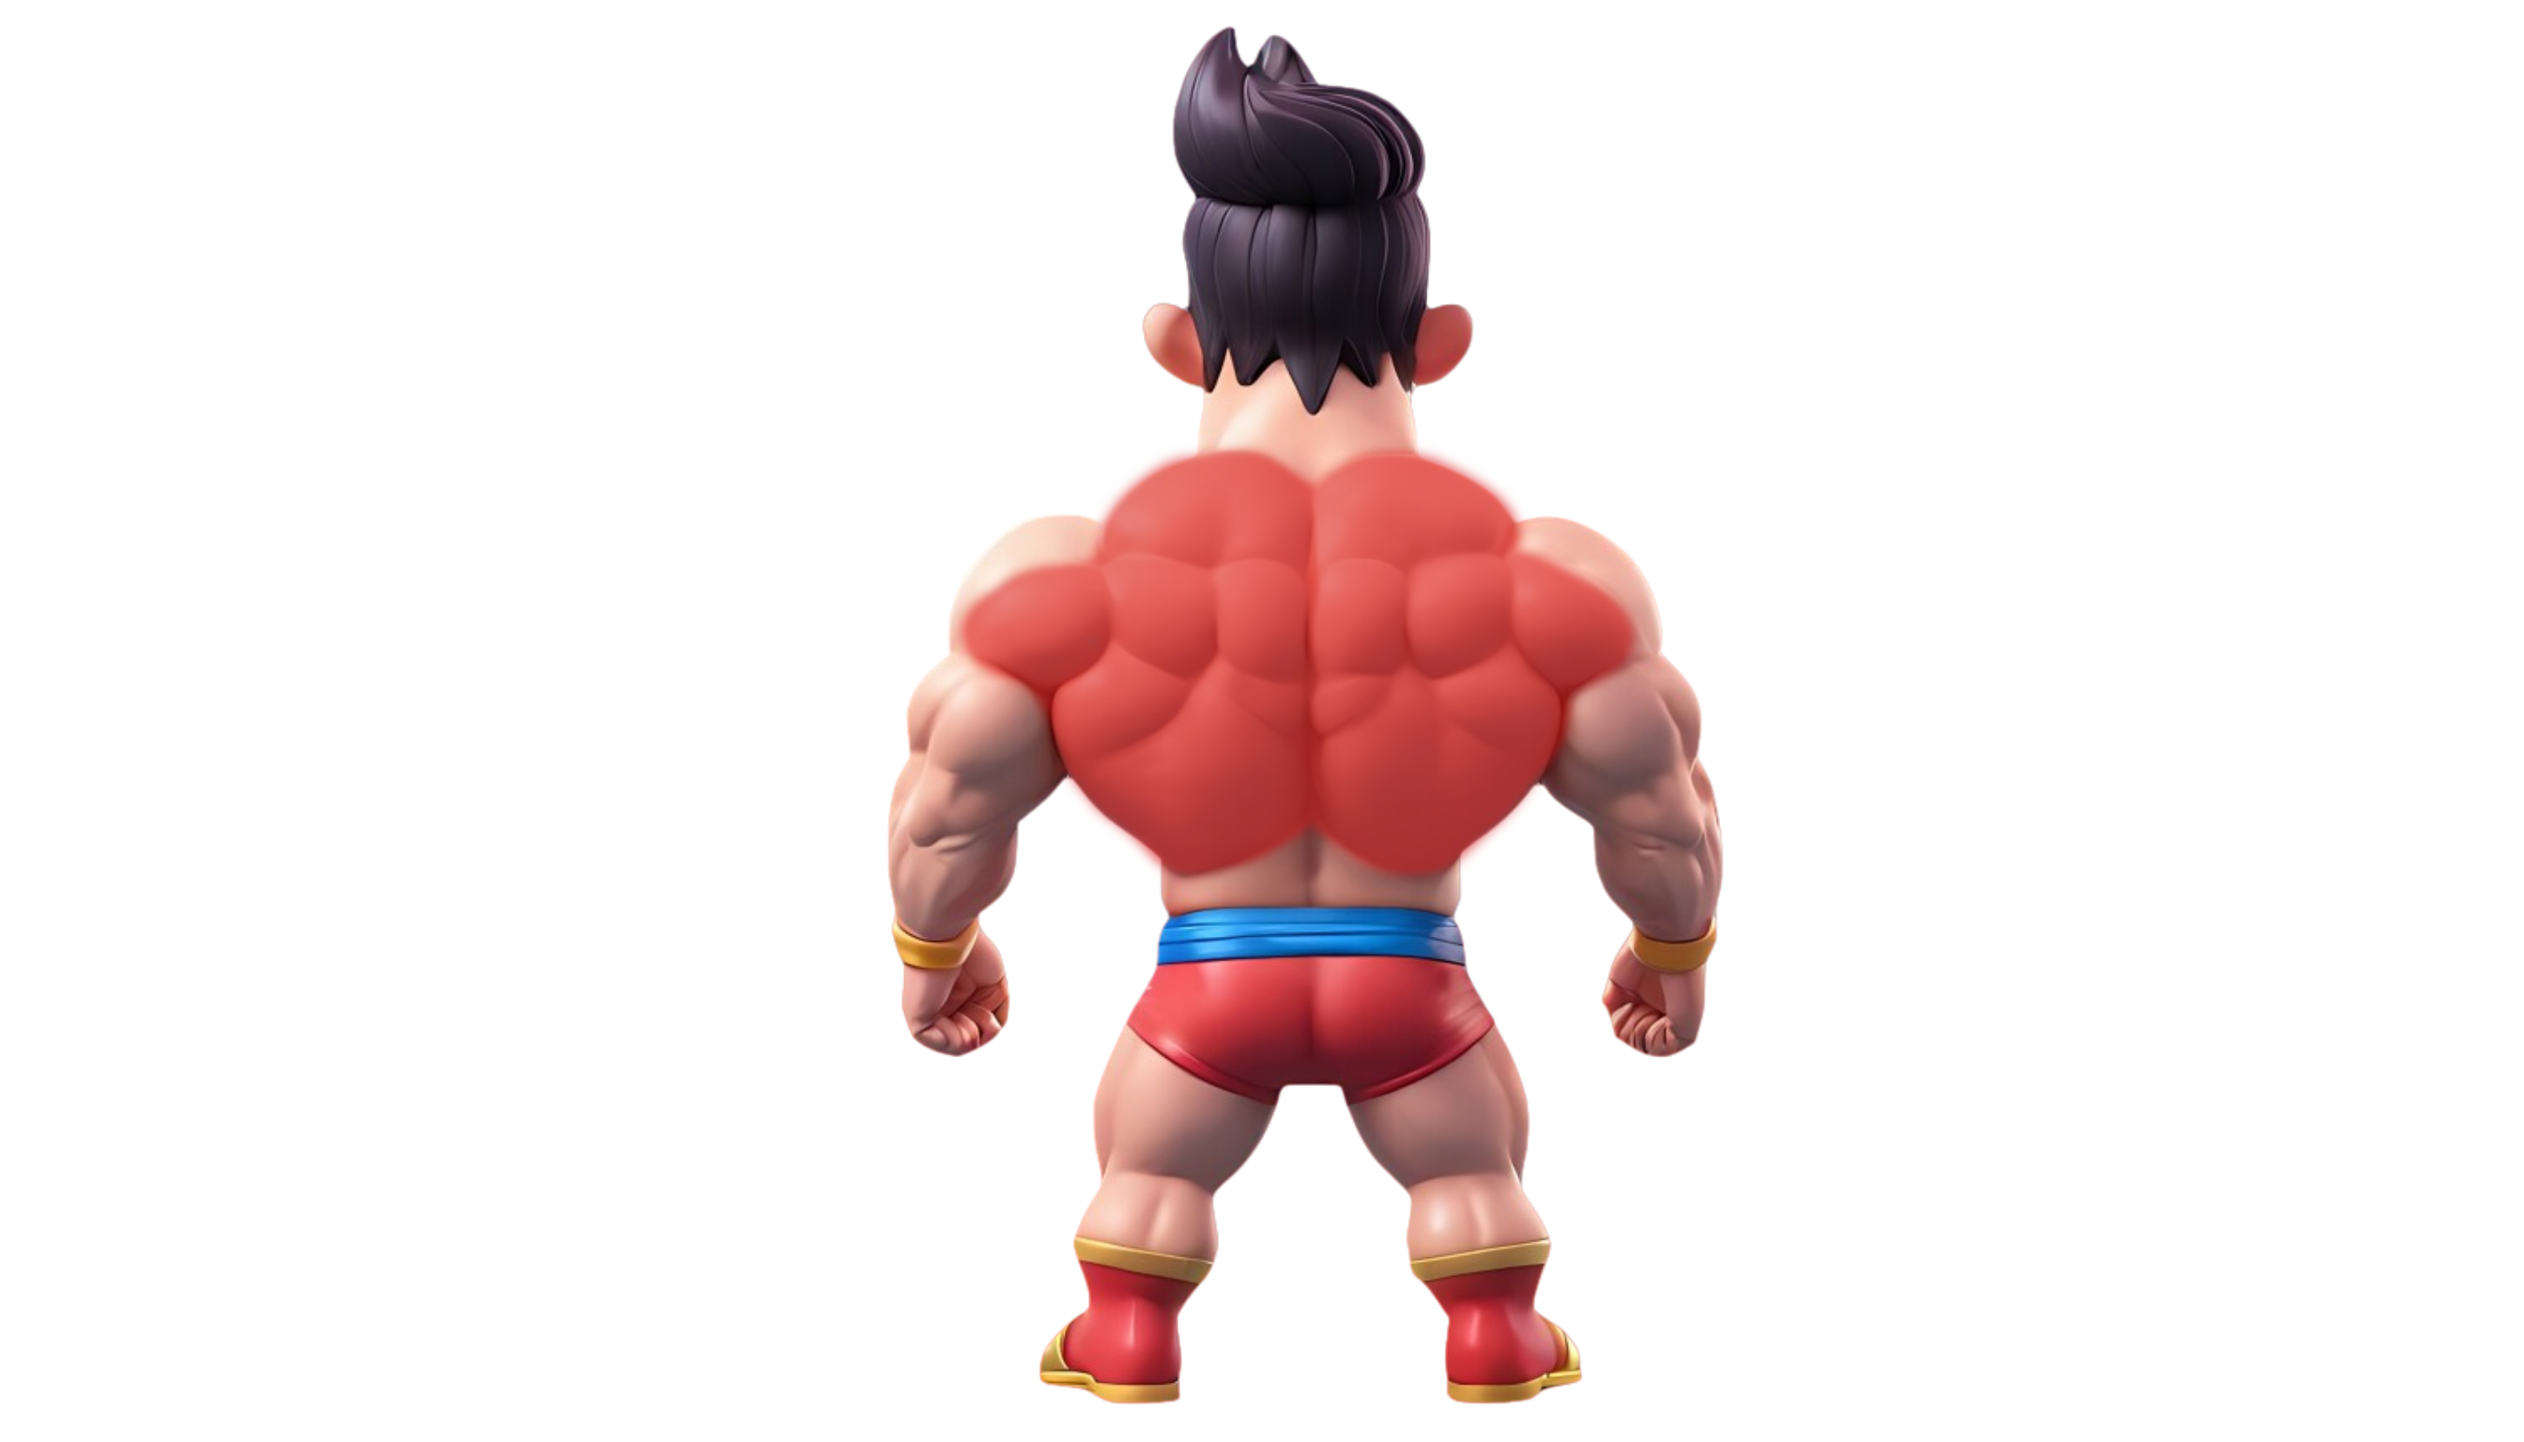
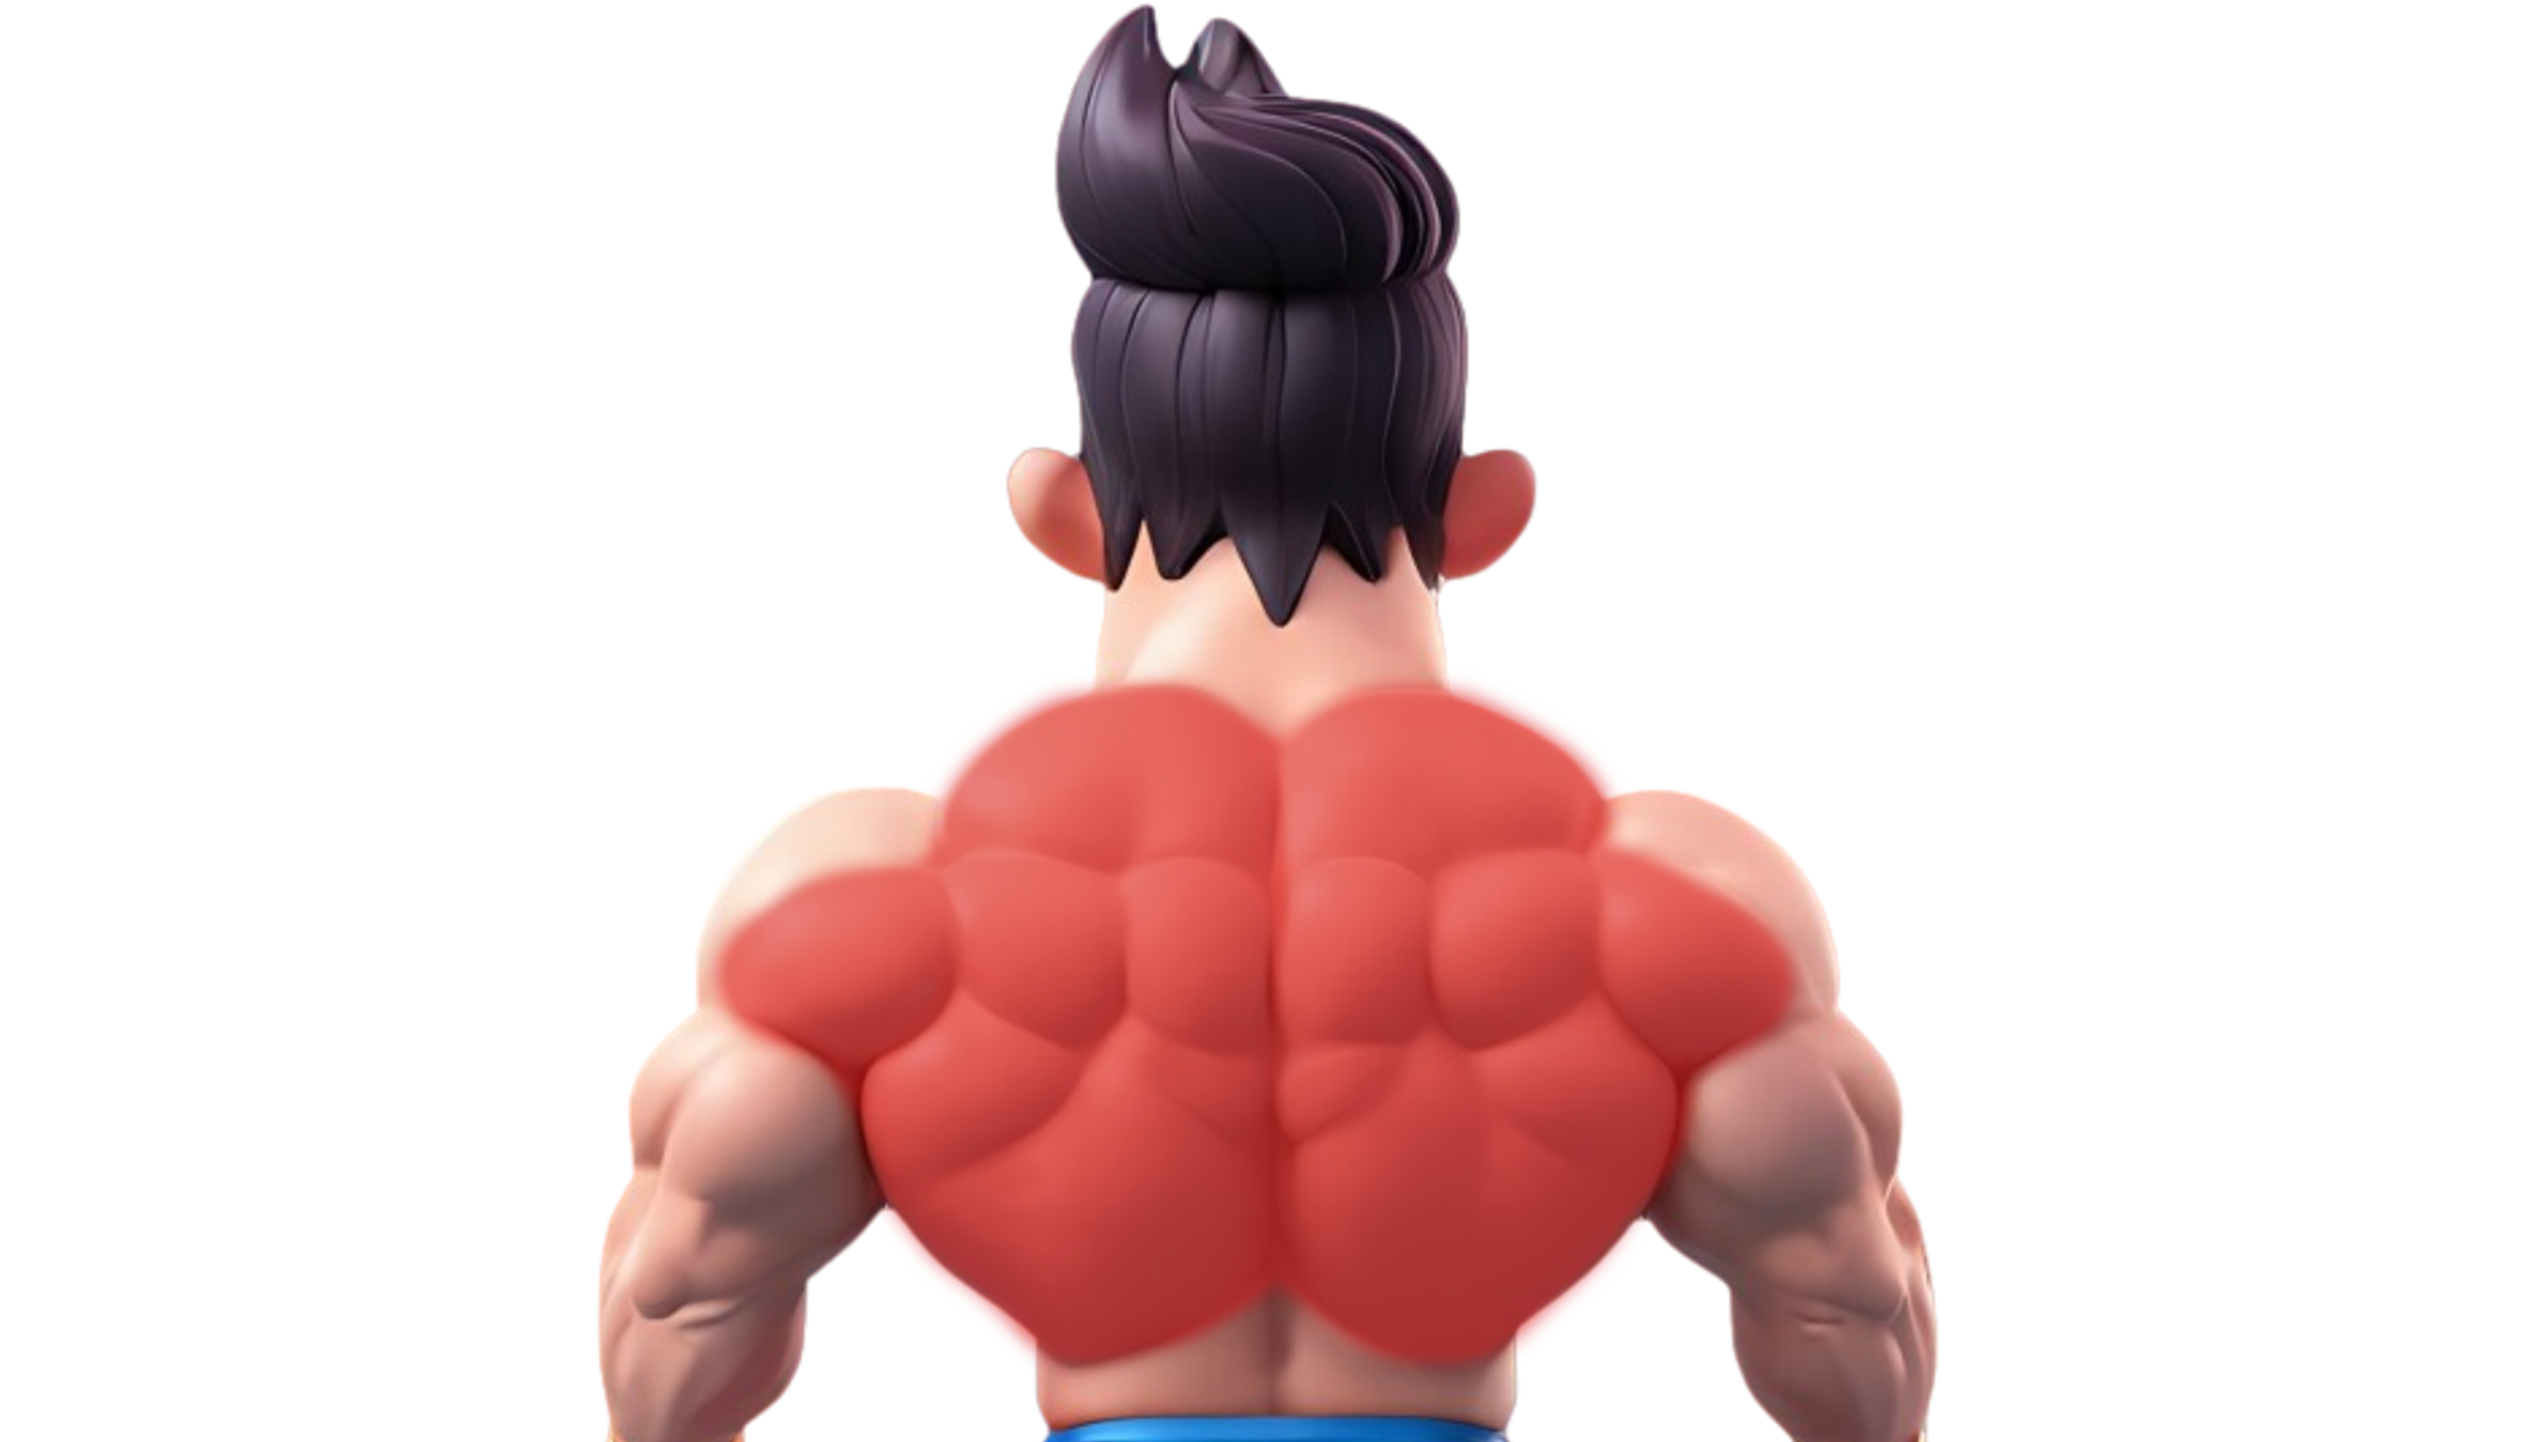
bodypart category img change; login style

Changed region(s): [[0.2188, 0.0, 0.7812, 1.0]]

diff --git a/src/app/share-time/share-time.service.ts b/src/app/share-time/share-time.service.ts
@@ -38,6 +38,8 @@ export class ShareTimeService {
   AUDIO_MAIN_ALERT = new Audio('./../../assets/sounds/main-alert.mp3');
   AUDIO_PRE_ALERT = new Audio('./../../assets/sounds/pre-alert.mp3');
 
+  backgroundImages: { [key: string]: string } = {};
+
   firestore: Firestore = inject(Firestore);
 
   constructor(private _snackBar: MatSnackBar) {
@@ -74,9 +76,8 @@ export class ShareTimeService {
   async deleteFieldElement(docId: string, exercise?: any) {
     console.log(this.firestore, "users", docId, exercise);
 
-    const docRef = doc(this.firestore, "users", docId, 'BD');
+    const docRef = doc(this.firestore, "users", docId);
 
-    // Remove the 'capital' field from the document
     await updateDoc(docRef, {
       capital: deleteField()
     });
@@ -234,5 +235,29 @@ export class ShareTimeService {
     this._snackBar.openFromComponent(SnackBarComponent, {
       duration: 3000,
     });
+  }
+
+  checkBodypart(exerciseName: string): string {
+    const backgroundBodypart = this.userVariables[0]?.exercises[exerciseName]?.bodypart;
+    const backgroundImageMap: { [key: string]: string } = {
+      'Chest': 'url("./../../assets/img/chest-muscle.png")',
+      'Back': 'url("./../../assets/img/back-muscle.png")',
+      'Arms': 'url("./../../assets/img/arm-muscle.png")',
+      'Shoulders': 'url("./../../assets/img/shoulders-muscle.png")',
+      'Abdominal': 'url("./../../assets/img/abdominal-muscle.png")',
+      'Legs': 'url("./../../assets/img/legs-muscle.png")',
+      'Calves': 'url("./../../assets/img/calves-muscle.png")',
+      'Stamina': 'url("./../../assets/img/stamina-muscle.png")',
+
+    };
+
+    const backgroundImage = backgroundImageMap[backgroundBodypart] || 'url("./path/to/default-image.jpg")';
+    this.backgroundImages[exerciseName] = backgroundImage;
+
+    return backgroundImage;
+  }
+
+  getBackgroundImage(exerciseName: string): string {
+    return this.backgroundImages[exerciseName];
   }
 }

diff --git a/src/app/login/login.component.ts b/src/app/login/login.component.ts
@@ -21,16 +21,23 @@ export class LoginComponent implements OnInit {
 
   ngOnInit(): void {
     google.accounts.id.initialize({
-      client_id: '440475341248-7cnocq0n3c2vcmmfukg58lq3jeasfeua.apps.googleusercontent.com',
+      client_id: '48091826759-81j87796gcoeko02ls6hjvjbkunvaolj.apps.googleusercontent.com',
       callback: (resp: any) => this.handleLogin(resp)
     });
+  }
 
-    google.accounts.id.renderButton(document.getElementById('google-btn'), {
-      theme: 'filled_blue',
-      size: 'large',
-      shape: 'rectangle',
-      width: 350
-    })
+  ngAfterViewInit(): void {
+    const customGoogleButton = document.getElementById('google-btn');
+    if (customGoogleButton) {
+      customGoogleButton.addEventListener('click', () => {
+        google.accounts.id.prompt((response: any) => {
+          if (response.isNotDisplayed() || response.isSkippedMoment()) {
+            document.cookie = `g_state=;path=/;expires=Thu, 01 Jan 1970 00:00:01 GMT`;
+            google.accounts.id.prompt();
+          }
+        });
+      });
+    }
   }
 
   private decodeToken(token: string) {

diff --git a/src/app/main-content/landing-page/LandingPageComponent.ts b/src/app/main-content/landing-page/LandingPageComponent.ts
@@ -35,7 +35,7 @@ import { RenameExerciseComponent } from '../rename-exercise/rename-exercise.comp
 
 export class LandingPageComponent {
     userId!: string;
-    exercisesList: any[] = [];
+    exercisesList: string[] = [];
     user!: User;
 
     constructor(
@@ -60,6 +60,11 @@ export class LandingPageComponent {
             const exercises = userField!['exercises'];
             // map to array
             this.exercisesList = exercises ? Object.keys(exercises) : [];
+
+            // background image
+            this.exercisesList.forEach((exerciseName: string) => {
+                this.shareTimeService.checkBodypart(exerciseName);
+            });
         });
     }
 
@@ -73,7 +78,7 @@ export class LandingPageComponent {
         });
     }
 
-    openEditExercise(exercise: string) {
+    openEditExercise(exercise: string, i: number) {
         this.shareTimeService.show = false;
         this.shareTimeService.showEditDiary = false;
         this.shareTimeService.currentDiaryEntryLog(exercise);

diff --git a/src/app/login/login.component.scss b/src/app/login/login.component.scss
@@ -1,0 +1,46 @@
+.login-box {
+    background: rgba(0, 0, 0, 0.3);
+    border-radius: 3rem;
+    margin: 32px;
+    padding: 32px;
+    height: calc(100vh - 64px);
+    box-sizing: border-box;
+    gap: 32px;
+    display: flex;
+    flex-direction: column;
+    justify-content: center;
+    align-items: center;
+}
+
+h1 {
+    font-size: 36px;
+    font-weight: bold;
+    // height: 70px;
+}
+
+.google-btn-div {
+    display: flex;
+    align-items: center;
+    justify-content: center;
+    background: white;
+    border-radius: 5rem;
+    border: 1px solid transparent;
+    cursor: pointer;
+    width: 85%;
+
+    .google-login {
+        display: flex;
+        align-items: center;
+        padding: 8px 12px;
+        gap: 0.8rem;
+
+        img {
+            width: 30px;
+        }
+    }
+}
+
+.login-bodybuilder-img {
+    width: 50%;
+    height: auto;
+}

diff --git a/src/app/main-content/add-exercise/add-exercise.component.html b/src/app/main-content/add-exercise/add-exercise.component.html
@@ -2,6 +2,7 @@
     <mat-card-header>
         <mat-card-title>Add exercise</mat-card-title>
         <mat-form-field class="example-full-width">
+            <mat-label>Exercise name</mat-label>
             <input matInput [(ngModel)]="exerciseName.name" required>
         </mat-form-field>
     </mat-card-header>
@@ -19,6 +20,6 @@
 
     <mat-card-actions>
         <button mat-button (click)="this.dialogRef.close();">Cancel</button>
-        <button mat-button (click)="saveAddExercise()" [disabled]="!exerciseName">Save</button>
+        <button mat-button (click)="saveAddExercise()" [disabled]="!exerciseName.name">Save</button>
     </mat-card-actions>
 </mat-card>

diff --git a/src/app/main-content/add-exercise/add-exercise.component.ts b/src/app/main-content/add-exercise/add-exercise.component.ts
@@ -36,7 +36,6 @@ export class AddExerciseComponent {
   exerciseName: { name: any } = { name: '' }; // create map
   bodypartName: string = '';
   entries: any[] = [];
-  // entries: { name: any } = { name: '' }; // create map
 
   constructor(
     @Inject(MAT_DIALOG_DATA) public data: any,
@@ -68,6 +67,10 @@ export class AddExerciseComponent {
   }
 
   async saveAddExercise() {
+    if (!this.bodypartName) {
+      this.bodypartName = 'Other';
+    }
+
     this.user.exercises[this.exerciseName.name] = {};
     this.user.exercises[this.exerciseName.name].bodypart = this.bodypartName;
     this.user.exercises[this.exerciseName.name].entries = this.entries;

diff --git a/src/app/main-content/landing-page/landing-page.component.scss b/src/app/main-content/landing-page/landing-page.component.scss
@@ -52,8 +52,8 @@
         height: 96px;
         width: 40%;
         background-repeat: no-repeat;
-        background-size: cover;
-        background-position: left;
+        background-size: contain;
+        background-position: left bottom;
 
         h3 {
             gap: 8px;
@@ -67,10 +67,6 @@
             align-items: center;
             line-height: 1.2;
         }
-    }
-
-    .diaryBtn {
-        background-image: url('./../../../assets/img/arm-muscle.png');
     }
 }
 

diff --git a/src/app/login/login.component.html b/src/app/login/login.component.html
@@ -1,4 +1,12 @@
-<div>
-    <h1>Sign in</h1>
-    <div id="google-btn"></div>
+<div class="login-box">
+    <h1>TIME TO FLEX</h1>
+
+    <div class="google-btn-div" id="google-btn">
+        <div class="google-login">
+            <img src="./../../assets/img/Google.png" alt="" />
+            <span>Anmelden mit Google</span>
+        </div>
+    </div>
+
+    <img src="./../../assets/img/login-bodybuilder.png" class="login-bodybuilder-img">
 </div>

diff --git a/src/app/main-content/landing-page/landing-page.component.html b/src/app/main-content/landing-page/landing-page.component.html
@@ -54,7 +54,8 @@
     <div class="gym-diary" *ngIf="shareTimeService.show">
 
         <button mat-raised-button color="primary" *ngFor="let exercise of exercisesList; let i = index" class="diaryBtn"
-            (click)="openEditExercise(exercise)">
+            [style.background-image]="shareTimeService.getBackgroundImage(exercise)"
+            (click)="openEditExercise(exercise, i)">
 
             <h3>{{ exercise }}</h3>
 

diff --git a/src/app/main-content/rename-exercise/rename-exercise.component.html b/src/app/main-content/rename-exercise/rename-exercise.component.html
@@ -19,6 +19,6 @@
 
     <mat-card-actions>
         <button mat-button (click)="this.dialogRef.close()">Cancel</button>
-        <button mat-button (click)="renameExercise()" [disabled]="!exerciseName">Save</button>
+        <button mat-button (click)="renameExercise()" [disabled]="!exerciseName.name">Save</button>
     </mat-card-actions>
 </mat-card>
